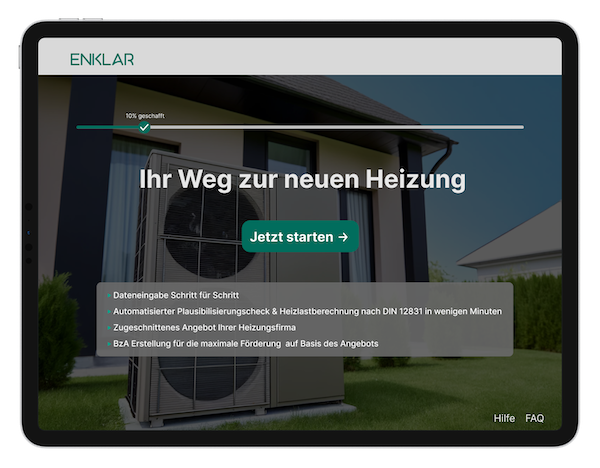
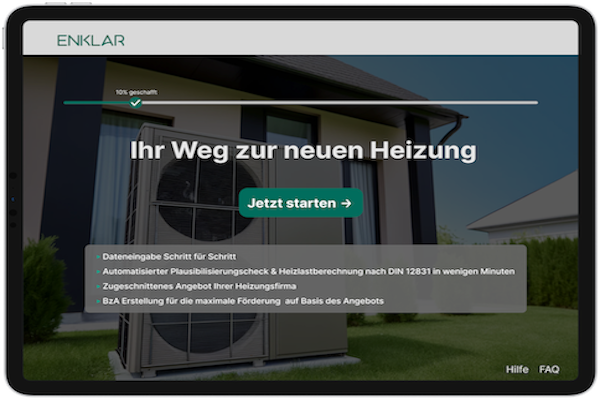
Adjusted color

diff --git a/src/app/therm/page.tsx b/src/app/therm/page.tsx
@@ -1,6 +1,6 @@
 import ImageFallback from "@/helpers/ImageFallback";
 import { markdownify } from "@/lib/utils/textConverter";
-import { Button, Feature, Advantage_therm } from "@/types";
+import { Button, Feature } from "@/types";
 import config from "@/config/config.json";
 import { getListPage } from "@/lib/contentParser";
 import PageHeader from "@/partials/PageHeader";
@@ -23,40 +23,54 @@ const Therm = async () => {
   const testimonialData = getListPage("sections/testimonial_therm.md");
   const callToActionData = getListPage("sections/call-to-action.md");
   const { frontmatter } = therm;
-  const { banner, features}: {
-    banner: {meta_title: string; title: string; description: string; image: string; content:string; button_footer: string; button?: Button};
+  const { banner, features }: {
+    banner: {
+      meta_title: string;
+      title: string;
+      description: string;
+      image: string;
+      content: string;
+      button_footer: string;
+      button?: Button;
+    };
     features: Feature[];
   } = frontmatter;
 
+  console.log("Banner Meta Title:", banner.meta_title); // Log to debug
+
+  if (!banner.meta_title) {
+    console.error("Meta title is missing!");
+    // Provide a fallback title
+    banner.meta_title = "Enklar";
+  }
+
   return (
     <>
-       <Head>
+      <Head>
         <title>{banner.meta_title}</title>
         <meta name="description" content={banner.description} />
         <link rel="shortcut icon" href={config.site.favicon} />
       </Head>
       <SeoMeta title={banner.title} description={banner.description} image={banner.image} />
 
-       {/* Banner Section */}
-       <section className="section pt-14 pb-2">
+      {/* Banner Section */}
+      <section className="section pt-14 pb-2">
         <div className="container">
           <div className="row justify-center">
-          <div className="col-12 rounded-lg">
+            <div className="col-12 rounded-lg">
               <ImageFallback src={banner.image} className="mx-auto rounded-lg" width="600" height="300" alt="banner image" priority />
             </div>
             <div className="lg:col-7 md:col-9 mb-8 text-center rounded-lg">
               <h1 className="mb-4 text-h3 m:text-h1" dangerouslySetInnerHTML={markdownify(banner.title)} />
               <p className="mb-8" dangerouslySetInnerHTML={markdownify(banner.content)} />
-              {banner.button!.enable && (
+              {banner.button && banner.button.enable && (
                 <Link
                   className="btn btn-primary"
-                  href={banner.button!.link}
-                  target={
-                    banner.button!.link.startsWith("http") ? "_blank" : "_self"
-                  }
+                  href={banner.button.link}
+                  target={banner.button.link.startsWith("http") ? "_blank" : "_self"}
                   rel="noopener"
                 >
-                  {banner.button!.label}
+                  {banner.button.label}
                 </Link>
               )}
               <p className="mb-8 pt-2" dangerouslySetInnerHTML={markdownify(banner.button_footer)} />
@@ -77,7 +91,6 @@ const Therm = async () => {
       {/* Testimonial Sections */}
       <Testimonials data={testimonialData} />
 
-
       {/* Additional Sections */}
       {features.map((feature, index) => (
         <section key={index} className={`section-sm ${index % 2 === 0 ? "bg-gradient" : ""}`}>
@@ -89,17 +102,15 @@ const Therm = async () => {
               <div className={`md:col-7 lg:col-6 ${index % 2 !== 0 ? "md:order-1" : ""}`}>
                 <h2 className="mb-4" dangerouslySetInnerHTML={markdownify(feature.title)} />
                 <p className="mb-8 text-lg" dangerouslySetInnerHTML={markdownify(feature.content)} />
-                {feature.button!.enable && (
-                <Link
-                  className="btn btn-primary"
-                  href={feature.button!.link}
-                  target={
-                    feature.button!.link.startsWith("http") ? "_blank" : "_self"
-                  }
-                  rel="noopener"
-                >
-                  {feature.button!.label}
-                </Link>
+                {feature.button && feature.button.enable && (
+                  <Link
+                    className="btn btn-primary"
+                    href={feature.button.link}
+                    target={feature.button.link.startsWith("http") ? "_blank" : "_self"}
+                    rel="noopener"
+                  >
+                    {feature.button.label}
+                  </Link>
                 )}
               </div>
             </div>

diff --git a/src/layouts/partials/Numbers.tsx b/src/layouts/partials/Numbers.tsx
@@ -95,7 +95,7 @@ const Numbers = ({ data }: { data: AdvantagesData }) => {
           margin-top: 20px;
         }
         .number-text {
-          color: #016D5D !important!;
+          color: #F39C12 !important!;
         }
       `}</style>
     </section>
@@ -113,7 +113,7 @@ const AdvantageItem = ({ advantage }: { advantage: Advantage }) => {
   return (
     <div ref={ref} className="advantage-item">
       <div className="rounded-lg px-7 py-10 dark:bg-darkmode-theme-light text-center">
-        <h2 className="h1 font-primary font-semibold items-center justify-center number-text"  style={{ color: '#016D5D' }}>
+        <h2 className="h1 font-primary font-semibold items-center justify-center number-text"  style={{ color: '#B8860B' }}>
           {inView && (
             <CountUp
               end={parseInt(advantage.number, 10)}

diff --git a/src/layouts/partials/CallToAction.tsx b/src/layouts/partials/CallToAction.tsx
@@ -2,6 +2,7 @@ import ImageFallback from "@/helpers/ImageFallback";
 import { markdownify } from "@/lib/utils/textConverter";
 import { Call_to_action } from "@/types";
 import Link from "next/link";
+import Image from 'next/image';
 import ContactForm from "./contact_form";
 
 interface PageData {
@@ -32,6 +33,11 @@ const CallToAction = ({ data }: { data: PageData }) => {
                     )}
                     className="mb-6"
                   />
+
+                  <div className="partner-logo items-left">
+                    <Image src="/images/EE_EnergieeffizienzExperten_Logo_m.png" alt="Expertenlogo" width={200} height={100} />
+                  </div>
+                  
                   {data.frontmatter.button.enable && (
                     <Link
                       className="btn btn-primary"

diff --git a/src/layouts/partials/Advantages_therm.tsx b/src/layouts/partials/Advantages_therm.tsx
@@ -49,7 +49,7 @@ const Advantages_therm = ({ data }: { data: AdvantagesData }) => {
           {data.advantages.map((advantage, index) => (
             <div key={index} className="advantage-item">
               <div className="rounded-lg px-7 py-10 dark:bg-darkmode-theme-light text-center">
-                <FontAwesomeIcon icon={iconMap[advantage.icon]} size="2x" color="#FF5733" />
+                <FontAwesomeIcon icon={iconMap[advantage.icon]} size="2x" color="#B8860B" />
                 <div className="text-container ml-2 mt-4">
                   <h3
                     dangerouslySetInnerHTML={markdownify(advantage.text)}

diff --git a/src/content/therm/_index.md b/src/content/therm/_index.md
@@ -5,8 +5,9 @@ title: "Ihre Vorteile"
 description: "Mit uns sparen Sie nicht nur Nerven sondern auch Geld."
 # Banner
 banner:
-  title: "Heizlastberechnung und Förderservice so einfach wie nie mit unserem Service <span style='color: #016D5D;'>Enklar.</span><span style='color: #FF5733;'>Therm</span>"
+  title: "Heizlastberechnung und Förderservice so einfach wie nie mit unserem Service <span style='color: #016D5D;'>Enklar.</span><span style='color: #B8860B;'>Therm</span>"
   content: "Nutzen Sie den Vorteil unseres digitalen Ansatzes, um die Heizlastberchnung digitalisiert und innerhalb weniger Tage präzise nach DIN 12831 von uns bereitgestellt zu bekommen."
+  meta_title: "Enklar.Therm"
   button_footer: "✔Unverbindlich & Kostenlos"
   image: "/images/mockup_n.png"
   button:

diff --git a/src/content/sections/call-to-action.md b/src/content/sections/call-to-action.md
@@ -1,6 +1,6 @@
 ---
 enable: true
-title: "Erhöhen Sie Ihre Effizienz & Kundenzufriedenheit und starten durch mit unserem Service <span style='color: #016D5D;'>Enklar.</span><span style='color: #FF5733;'>Therm</span>"
+title: "Erhöhen Sie Ihre Effizienz & Kundenzufriedenheit und starten durch mit unserem Service <span style='color: #016D5D;'>Enklar.</span><span style='color: #B8860B;'>Therm</span>"
 image: "/images/portrait3.png"
 description: "In einem kostenlosen unverbindlichen 15-Minuten Gespräch freuen wir uns Ihnen alle Vorteile unseres Services näherzubringen."
 button:

diff --git a/src/content/sections/numbers.md b/src/content/sections/numbers.md
@@ -1,6 +1,6 @@
 ---
 enable: true
-title: "Enklar-therm auf einem Blick"
+title: "<span style='color: #016D5D;'>Enklar.</span><span style='color: #B8860B;'>Therm</span> auf einem Blick"
 description: ""
 
 # Testimonials
